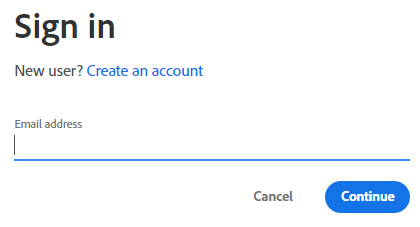
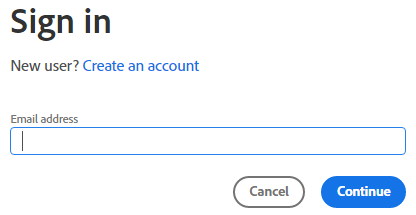
Fix some Adobe app tests and update screenshots for Adobe login (#20)

diff --git a/!include/util.sikuli/util.py b/!include/util.sikuli/util.py
@@ -8,7 +8,7 @@ start_menu = os.path.join((os.environ["APPDATA"]), "Microsoft", "Windows", "Star
 
 # Operations before running app test.
 def pre_test():
-    # Workaround for the bug that when Num-Lock is on, Key.SHIFT doesn't work with arrow keys: https://answers.launchpad.net/sikuli/+question/143874.
+    # Workaround for the bug that when Num-Lock is on, Key.SHIFT does not work with arrow keys: https://answers.launchpad.net/sikuli/+question/143874.
     if Env.isLockOn(Key.NUM_LOCK):
         type(Key.NUM_LOCK)
 
@@ -35,15 +35,15 @@ def get_credentials(path):
 # Log in for Adobe Creative Cloud.
 def adobe_cc_login(username, password):
     wait("adobe_login.png",90)
-    click(Pattern("adobe_login.png").targetOffset(-167,32))
+    click(Pattern("adobe_login.png").targetOffset(-186,32))
     type(username)
-    click("adobe_login_continue.png")
+    click(Pattern("adobe_login_continue.png").similar(0.90))
     wait("adobe_login_pass.png")
     type(password)
-    click("adobe_login_continue.png")
+    click(Pattern("adobe_login_continue.png").similar(0.90))
     if exists("adobe_login_signout_others.png",15):
         click(Pattern("adobe_login_signout_others.png").targetOffset(2,55))
-        click("adobe_login_continue.png")
+        click(Pattern("adobe_login_continue.png").similar(0.90))
 
 # Get the path of the shortcut for the apps that have different shortcut names for different versions.
 # Assume there is only one match inside the folder.

diff --git a/adobe_characteranimator/test.sikuli/test.py b/adobe_characteranimator/test.sikuli/test.py
@@ -15,8 +15,8 @@ username = credentials.get("username")
 password = credentials.get("password")
 
 # Test of `turbo run`.
-wait("adobe-login.png")
-click(Pattern("adobe-login.png").targetOffset(62,100))
+wait("adobe_login.png")
+click(Pattern("adobe_login.png").targetOffset(62,100))
 wait(10)
 
 # Launch the app.

diff --git a/adobe_aftereffects/test.sikuli/test.py b/adobe_aftereffects/test.sikuli/test.py
@@ -15,7 +15,7 @@ username = credentials.get("username")
 password = credentials.get("password")
 
 # Test of `turbo run`.
-if not exists("adobe-login.png"):
+if not exists("adobe_login.png"):
     wait("warning.png")
 run("turbo stop test")
 
